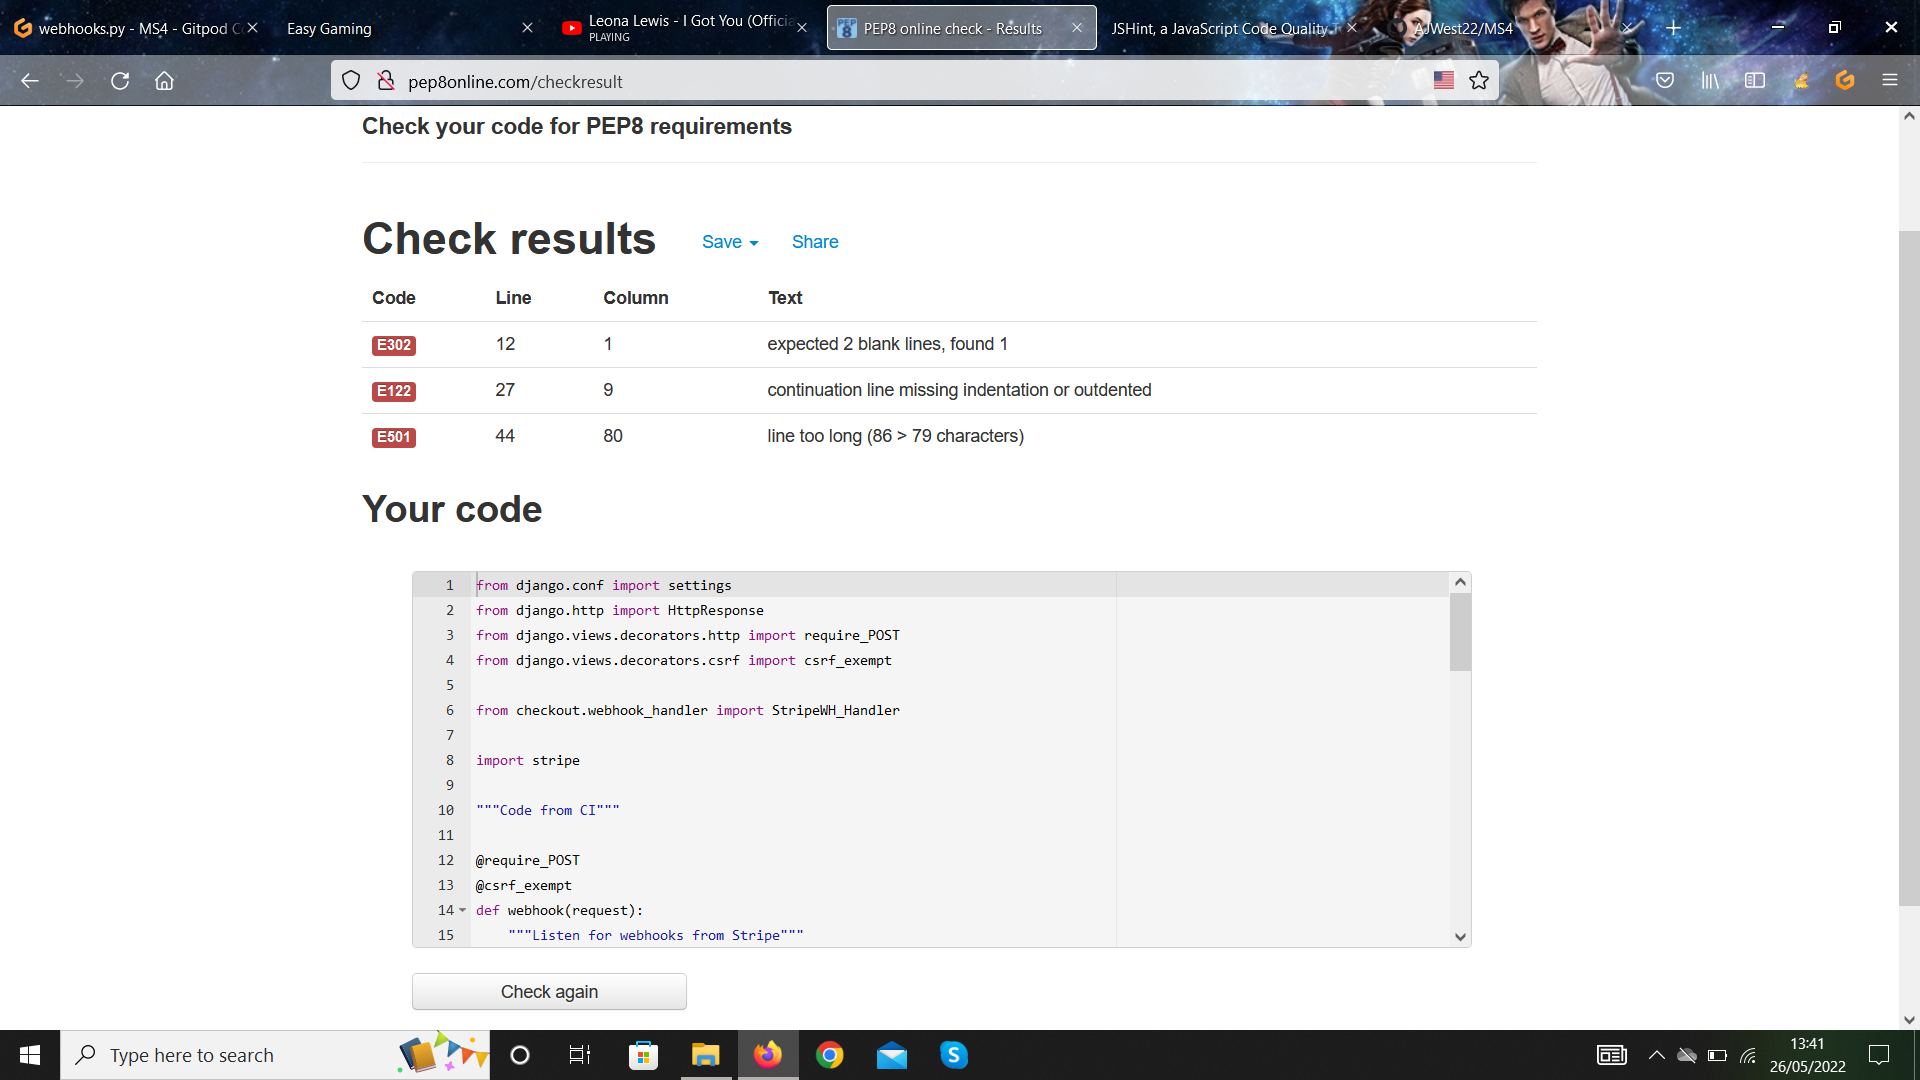
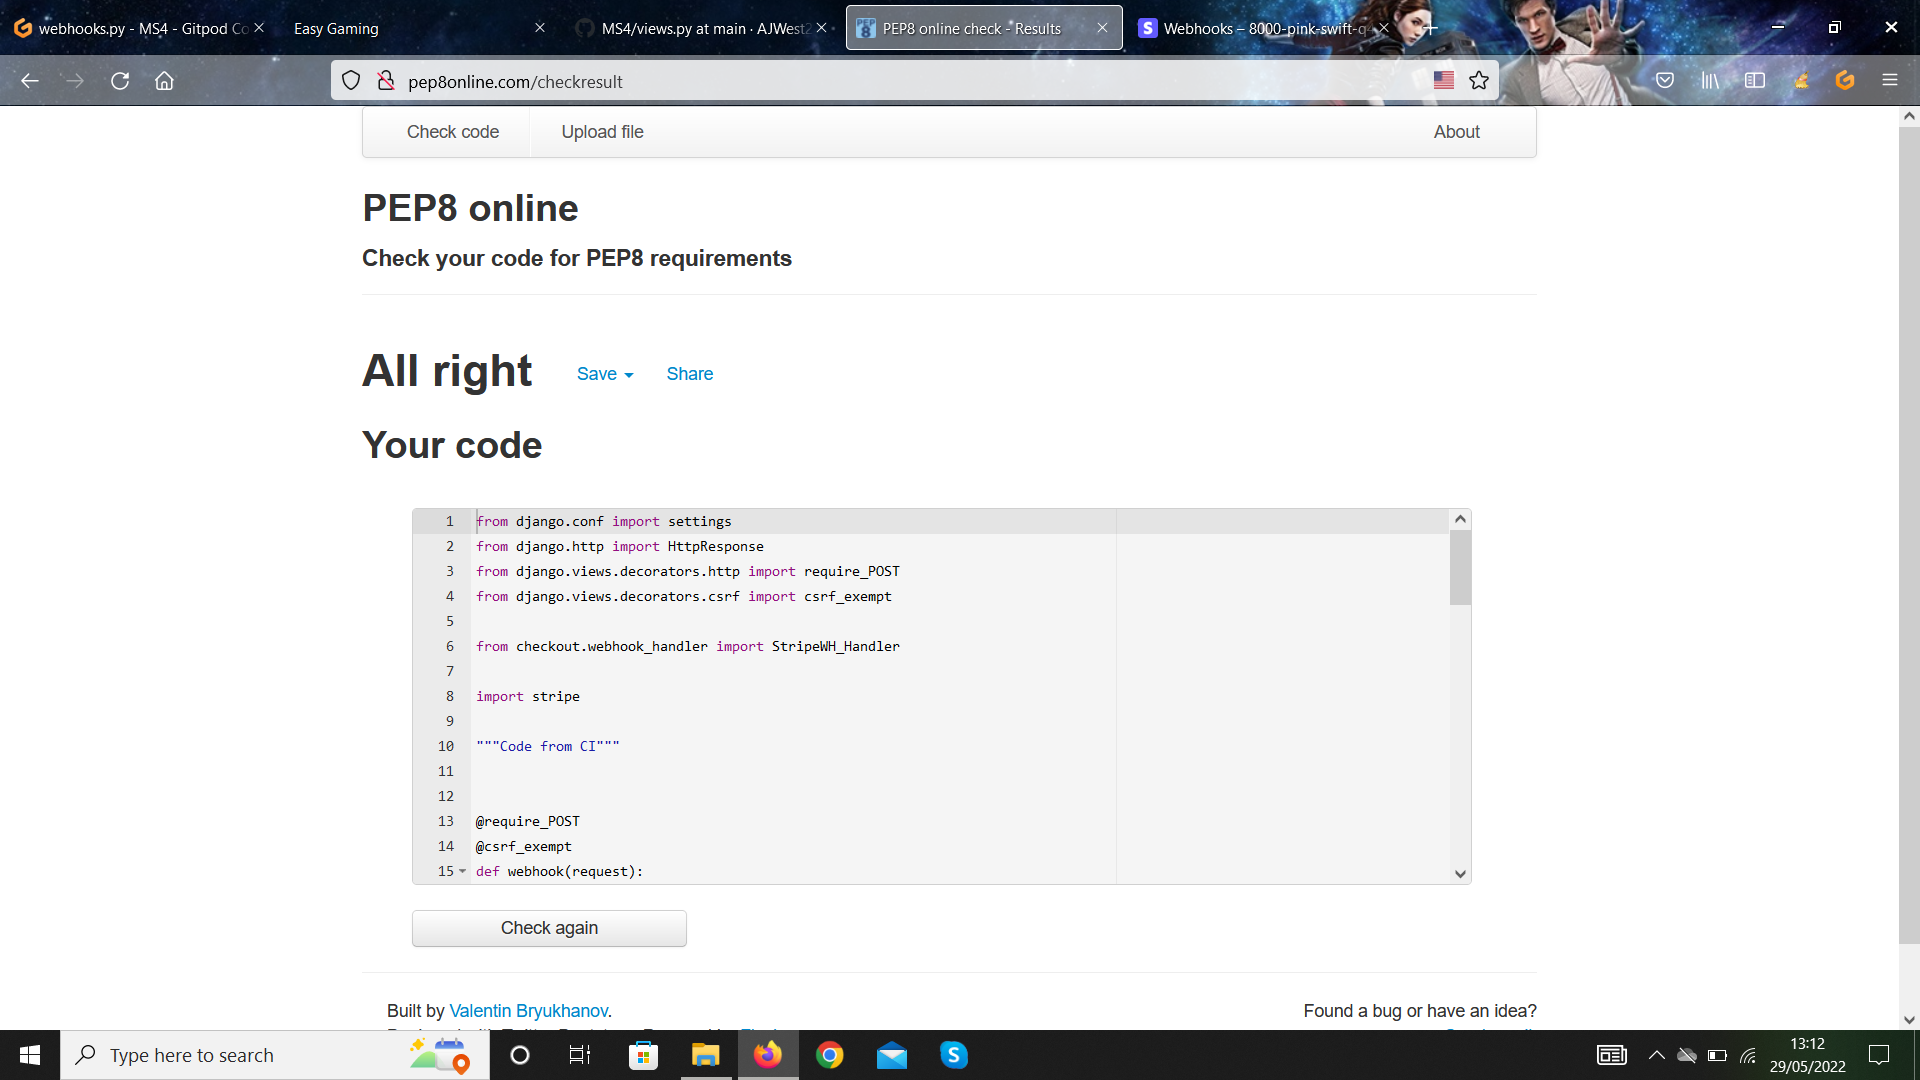
Fix errors in checkout webhooks files and update validation images in README

diff --git a/checkout/models.py b/checkout/models.py
@@ -14,7 +14,7 @@ class Order(models.Model):
     order_number = models.CharField(max_length=32, null=False, editable=False)
     user_profile = models.ForeignKey(
         UserProfile, on_delete=models.SET_NULL,
-            null=True, blank=True, related_name='orders'
+        null=True, blank=True, related_name='orders'
         )
     full_name = models.CharField(max_length=50, null=False, blank=False)
     email = models.EmailField(max_length=254, null=False, blank=False)
@@ -28,20 +28,20 @@ class Order(models.Model):
     date = models.DateTimeField(auto_now_add=True)
     delivery_cost = models.DecimalField(
         max_digits=6, decimal_places=2,
-            null=False, default=0
+        null=False, default=0
     )
     order_total = models.DecimalField(
-        max_digits=10, decimal_places=2, 
-            null=False, default=0
+        max_digits=10, decimal_places=2,
+        null=False, default=0
     )
     grand_total = models.DecimalField(
-        max_digits=10, decimal_places=2, 
-            null=False, default=0
+        max_digits=10, decimal_places=2,
+        null=False, default=0
     )
     original_basket = models.TextField(null=False, blank=False, default='')
     stripe_pid = models.CharField(
-        max_length=254, null=False, 
-            blank=False, default=''
+        max_length=254, null=False,
+        blank=False, default=''
     )
 
     def _generate_order_number(self):
@@ -55,8 +55,8 @@ class Order(models.Model):
         Update grand total each time an item is added,
         accounts for delivery if needed.
         """
-        self.order_total = self.lineitems.aggregate(Sum('lineitem_total'))(
-            ['lineitem_total__sum'] or 0)
+        self.order_total = self.lineitems.aggregate(
+            Sum('lineitem_total'))['lineitem_total__sum'] or 0
         if self.order_total < settings.FREE_DELIVERY_THRESHOLD:
             self.delivery_cost = (
                 self.order_total * settings.STANDARD_DELIVERY_PERCENTAGE / 100)
@@ -80,12 +80,12 @@ class Order(models.Model):
 
 class OrderLineItem(models.Model):
     order = models.ForeignKey(
-        Order, null=False, blank=False, 
-            on_delete=models.CASCADE, related_name='lineitems'
+        Order, null=False, blank=False,
+        on_delete=models.CASCADE, related_name='lineitems'
     )
     product = models.ForeignKey(
         Product, null=False,
-            blank=False, on_delete=models.CASCADE
+        blank=False, on_delete=models.CASCADE
     )
     product_quantity = models.CharField(max_length=2, null=True, blank=True)
     quantity = models.IntegerField(
@@ -93,7 +93,7 @@ class OrderLineItem(models.Model):
     )
     lineitem_total = models.DecimalField(
         max_digits=6, decimal_places=2,
-            null=False, blank=False, editable=False
+        null=False, blank=False, editable=False
     )
 
     def save(self, *args, **kwargs):

diff --git a/basket/views.py b/basket/views.py
@@ -1,5 +1,7 @@
-from django.shortcuts import render, redirect, reverse, (
-    HttpResponse, get_object_or_404)
+from django.shortcuts import (
+    render, redirect, reverse,
+        HttpResponse, get_object_or_404
+)
 from django.contrib import messages
 
 from products.models import Product
@@ -42,15 +44,15 @@ def adjust_basket(request, item_id):
     if quantity:
         if quantity > 0:
             basket[item_id] = quantity
-            messages.success(request, f'Updated {product.name}(
-                quantity to {basket[item_id]}'))
+            messages.success(request, f'Updated {product.name}\
+                quantity to {basket[item_id]}')
     else:
         if quantity > 0:
             basket[item_id] = quantity
         else:
             basket.pop(item_id)
-            messages.success(request, f'Removed {product.name}(
-                from your basket'))
+            messages.success(request, f'Removed {product.name}\
+                from your basket')
 
     request.session['basket'] = basket
     return redirect(reverse('view_basket'))
@@ -72,8 +74,8 @@ def remove_from_basket(request, item_id):
                 basket.pop(item_id)
         else:
             basket.pop(item_id)
-            messages.success(request, f'Removed {product.name}( 
-                from your basket'))
+            messages.success(request, f'Removed {product.name}\
+                from your basket')
 
         request.session['basket'] = basket
         return HttpResponse(status=200)

diff --git a/checkout/views.py b/checkout/views.py
@@ -1,5 +1,7 @@
-from django.shortcuts import render, redirect, reverse, (
-    get_object_or_404, HttpResponse)
+from django.shortcuts import (
+     render, redirect, reverse,
+        get_object_or_404, HttpResponse
+)
 from django.views.decorators.http import require_POST
 from django.contrib import messages
 from django.conf import settings
@@ -87,16 +89,16 @@ def checkout(request):
 
             # saves data to users profile
             request.session['save_info'] = 'save-info' in request.POST
-            return redirect(reverse('checkout_complete', (
-                args=[order.order_number])))
+            return redirect(reverse('checkout_complete',\
+                args=[order.order_number]))
         else:
             messages.error(request, 'There was an error with your form. \
                 Please double check your information.')
     else:
         basket = request.session.get('basket', {})
         if not basket:
-            messages.error(request, "There's nothing in your basket(
-                 at the moment"))
+            messages.error(request, "There's nothing in your basket\
+                 at the moment")
             return redirect(reverse('products'))
 
         current_basket = basket_contents(request)

diff --git a/checkout/webhooks.py b/checkout/webhooks.py
@@ -25,7 +25,7 @@ def webhook(request):
 
     try:
         event = stripe.Webhook.construct_event(
-        payload, sig_header, wh_secret
+            payload, sig_header, wh_secret
         )
     except ValueError as e:
         # Invalid payload
@@ -42,7 +42,8 @@ def webhook(request):
     # Map webhook events to relevant handler functions
     event_map = {
         'payment_intent.succeeded': handler.handle_payment_intent_succeeded,
-        'payment_intent.payment_failed': handler.handle_payment_intent_payment_failed,
+        'payment_intent.payment_failed': (
+            handler.handle_payment_intent_payment_failed,)
     }
 
     # Get the webhook type from Stripe

diff --git a/blog/views.py b/blog/views.py
@@ -79,8 +79,10 @@ def edit_post(request, post_id):
             messages.success(request, 'Your blog post has been updated!')
             return redirect('posts')
         else:
-            messages.error(request, 'Your post failed to update. (
-                Please check the form is filled out correctly.'))
+            messages.error(
+                request, 'Your post failed to update. \
+                    Please check the form is filled out correctly.'
+            )
     else:
         form = PostForm(instance=post)
         messages.info(request, f'You are editing {post.id}')

diff --git a/checkout/webhook_handler.py b/checkout/webhook_handler.py
@@ -103,9 +103,9 @@ class StripeWH_Handler:
         if order_exists:
             self._send_confirmation_email(order)
             return HttpResponse(
-                content=f'Webhook received: {event["type"]} | (
-                    SUCCESS: Verified order is now in database',)
-                    status=200)
+                content=f'Webhook received: {event["type"]} | \
+                    SUCCESS: Verified order is now in database',
+                status=200)
         else:
             order = None
             try:

diff --git a/blog/forms.py b/blog/forms.py
@@ -9,8 +9,8 @@ class PostForm(forms.ModelForm):
         fields = ('title',
                   'post')
 
-    image = forms.ImageField(label='Image', required=False, (
-        widget=CustomClearableFileInput))
+    image = forms.ImageField(label='Image', required=False,
+        widget=CustomClearableFileInput)
 
     def __init__(self, *args, **kwargs):
         super().__init__(*args, **kwargs)
